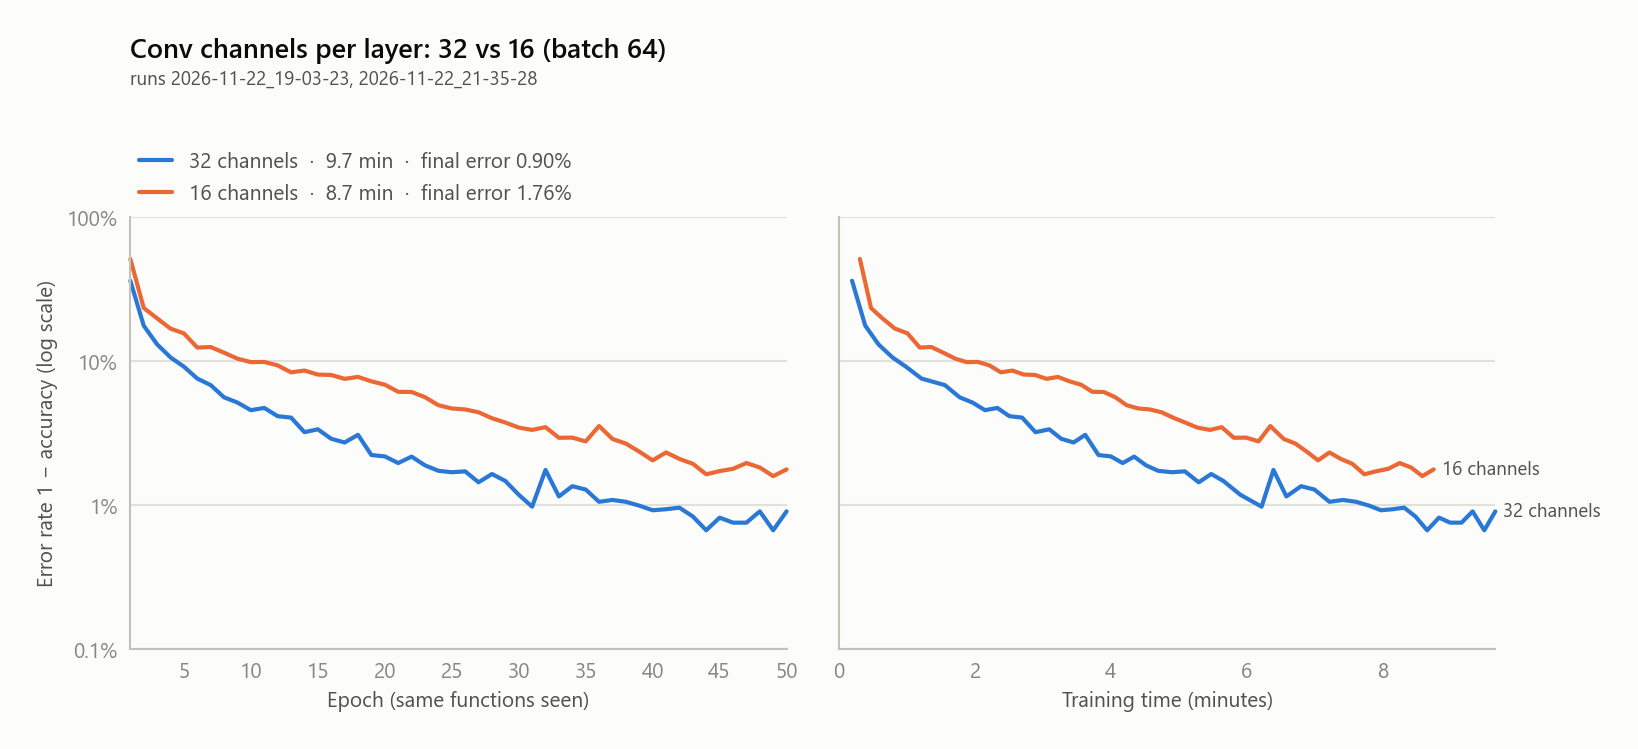
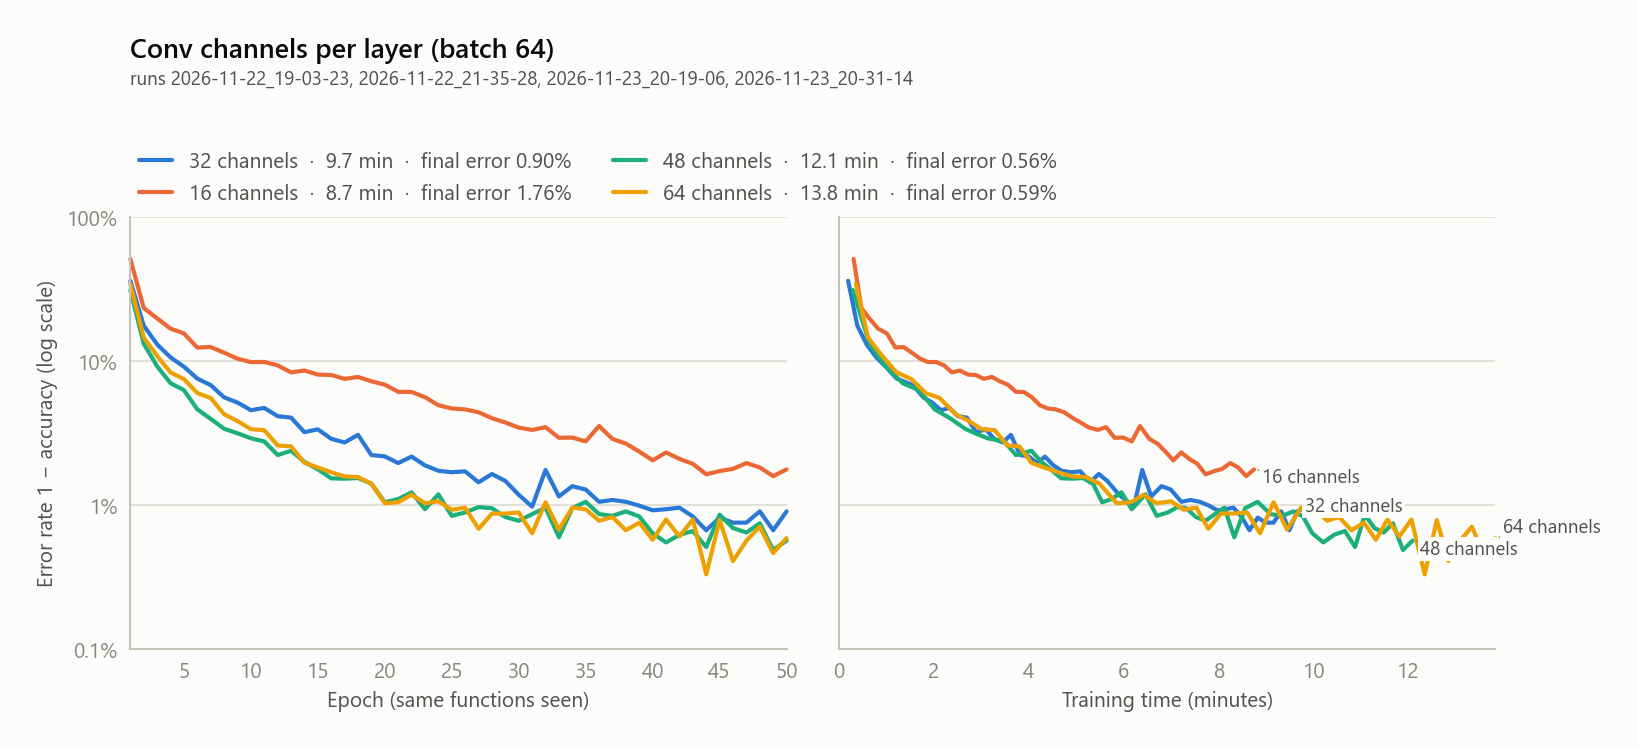
Add 48- and 64-channel runs to the channel comparison
48 / 64 channels reached 99.44% / 99.41% in the last epoch (32: 99.10%)
and learn faster per epoch, but cost 12.1 / 13.8 minutes; after 10
minutes all three are about equal. Redraws the comparison chart with
16, 32, 48 and 64 channels and extends the README table.

diff --git a/README.md b/README.md
@@ -266,30 +266,41 @@ Cross-entropy stays the default. Chart:
 [`comparisons/focal_loss.png`](comparisons/focal_loss.png). Run:
 [`runs/2026-11-22_21-18-41/`](runs/2026-11-22_21-18-41/).
 
-### 16 instead of 32 channels per conv layer
+### Channels per conv layer: 16, 32, 48, 64
 
-A run with 16 channels per conv layer (6,627 instead of 26,051 parameters) and
-otherwise the same settings as the batch-64 run with 32 channels. Both models
-were also evaluated on the same 51,200 fresh warped functions (seed 12345).
+Runs with 16, 48 and 64 channels per conv layer, with otherwise the same
+settings as the batch-64 run with 32 channels (50 epochs each). All models were
+also evaluated with their final weights on the same 51,200 fresh warped
+functions (seed 12345).
 
-| | 32 channels | 16 channels |
-|---|---|---|
-| Parameters | 26,051 | 6,627 |
-| Training time | 9.7 min | 8.7 min |
-| Training accuracy, last epoch | 99.10% | 98.24% |
-| Training accuracy, mean of last 10 epochs | 99.19% | 98.15% |
-| ≥ 98% after | 4.2 min | 7.6 min |
-| Accuracy on 51,200 fresh functions | 99.46% (274 wrong) | 98.85% (587 wrong) |
-| Missed peaks / extra peaks | 264 / 10 | 431 / 156 |
-| Errors on peaks narrower than 4 samples | 192 | 347 |
-| Extra peaks at a high edge | 10 | 146 |
+| | 16 channels | 32 channels | 48 channels | 64 channels |
+|---|---|---|---|---|
+| Parameters | 6,627 | 26,051 | 58,275 | 103,299 |
+| Training time | 8.7 min | 9.7 min | 12.1 min | 13.8 min |
+| Training accuracy, last epoch | 98.24% | 99.10% | 99.44% | 99.41% |
+| Training accuracy, mean of last 10 epochs | 98.15% | 99.19% | 99.37% | 99.40% |
+| ≥ 98% after | epoch 43 / 7.6 min | epoch 21 / 4.2 min | epoch 14 / 4.3 min | epoch 14 / 4.1 min |
+| ≥ 99% after | not reached | epoch 31 / 6.2 min | epoch 23 / 6.2 min | epoch 25 / 7.3 min |
+| After 10 min (mean of last 5 epochs) | 98.23% (done) | 99.21% (done) | 99.19% (epoch 40) | 99.16% (epoch 34) |
+| Accuracy on 51,200 fresh functions | 98.85% | 99.46% | 99.47% | 99.36% |
+| McNemar vs 32 channels | z = −14.58 | — | z = +0.36 | z = −3.60 |
 
-The 16-channel model makes about twice as many errors, a significant
-difference: 200 functions are wrong for both models, 74 only with 32 channels
-and 387 only with 16 channels (McNemar z = −14.58). It misses narrow peaks more
-often and frequently counts a high edge as a peak again. 32 channels stay the
-default. Chart: [`comparisons/channels.png`](comparisons/channels.png). Run:
-[`runs/2026-11-22_21-35-28/`](runs/2026-11-22_21-35-28/).
+- **Per epoch**, 48 and 64 channels learn clearly faster than 32: they reach
+  98% after 14 instead of 21 epochs and end about 0.2 points higher.
+- **Per minute** they cost more time per step, so after 10 minutes all three
+  are about equal (99.16–99.21%). 16 channels are clearly worse throughout.
+- **The fresh-data evaluation of the final weights** differs from the training
+  averages. 48 channels equal 32 (n.s.), and 64 channels are even
+  significantly worse. With a constant learning rate, accuracy fluctuates from
+  epoch to epoch (64 channels: 99.0–99.67% in the last 10 epochs), so the
+  final weights are a random snapshot. The McNemar tests compare these
+  snapshots, not the channel counts in general.
+
+32 channels stay the default. Chart:
+[`comparisons/channels.png`](comparisons/channels.png). Runs:
+[`runs/2026-11-22_21-35-28/`](runs/2026-11-22_21-35-28/) (16),
+[`runs/2026-11-23_20-19-06/`](runs/2026-11-23_20-19-06/) (48),
+[`runs/2026-11-23_20-31-14/`](runs/2026-11-23_20-31-14/) (64).
 
 ## License
 
